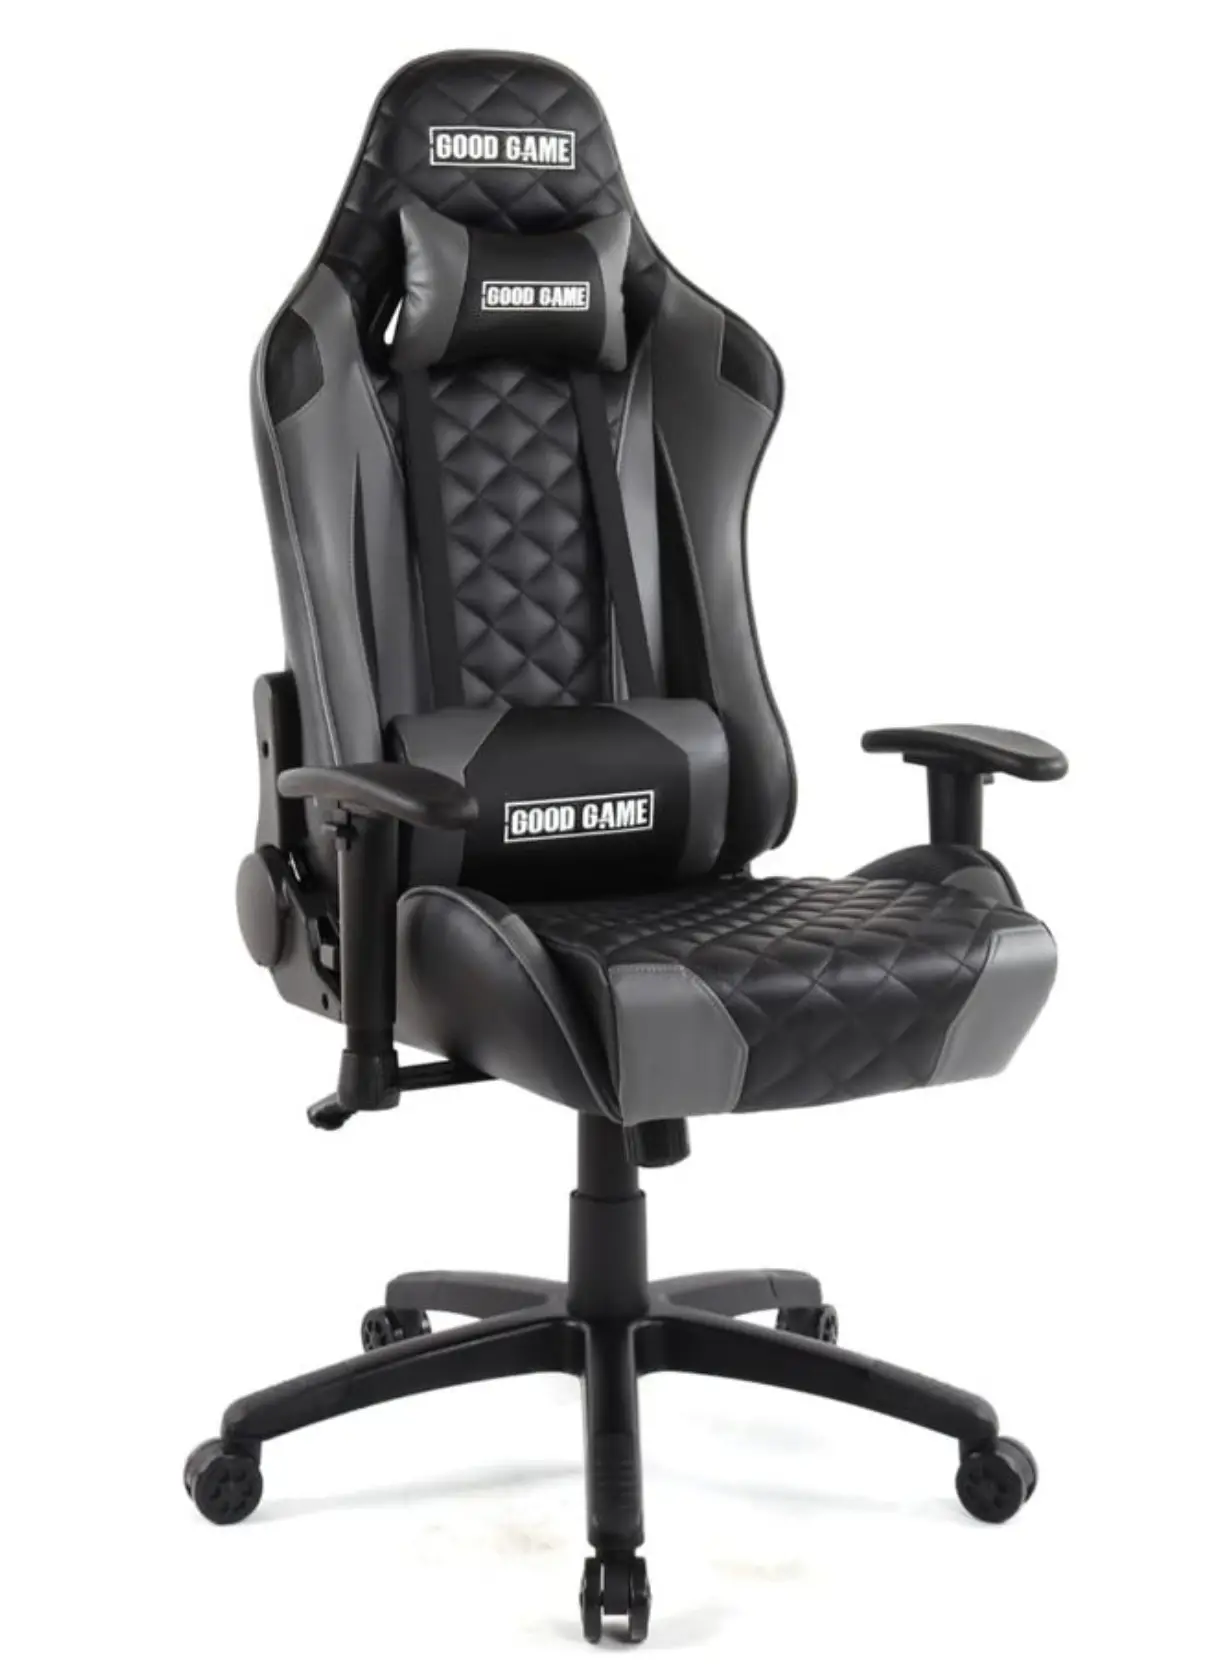
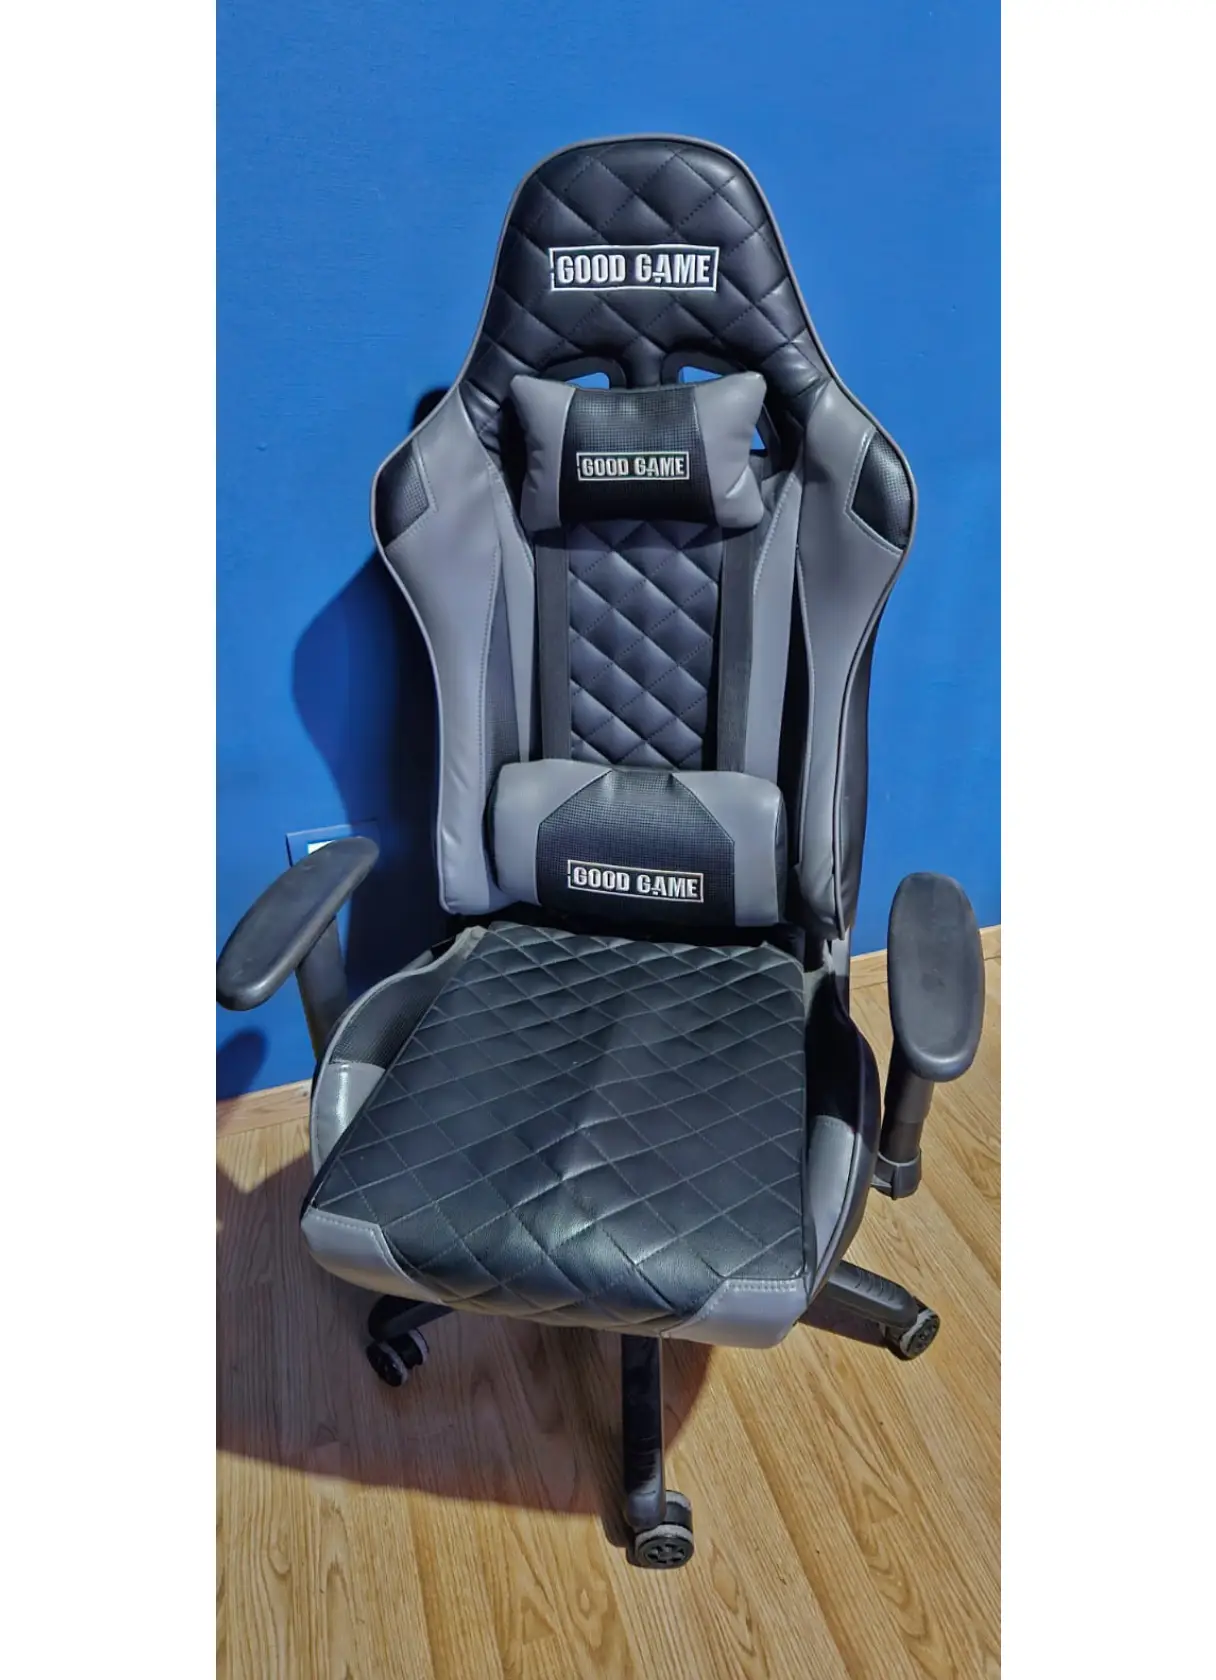
Updated images and components

diff --git a/src/utils/data.js b/src/utils/data.js
@@ -1,7 +1,14 @@
 // Images
-import alvProd1 from "../assets/alv-prod-1.webp"
-import alvProd2 from "../assets/alv-prod-2.webp"
-import alvProd3 from "../assets/alv-prod-3.webp"
+import alvProd1 from '../assets/alv-prod-1.webp'
+import alvProd2 from '../assets/alv-prod-2.webp'
+import alvProd3 from '../assets/alv-prod-3.webp'
+import alvProd4 from '../assets/alv-prod-4.webp'
+import alvProd5 from '../assets/alv-prod-5.webp'
+import alvProd6 from '../assets/alv-prod-6.webp'
+import alvProd7 from '../assets/alv-prod-7.webp'
+import alvProd8 from '../assets/alv-prod-8.webp'
+import alvProd9 from '../assets/alv-prod-9.webp'
+import alvProd10 from '../assets/alv-prod-10.webp'
 
 // Data
 const products = [
@@ -9,22 +16,71 @@ const products = [
     id: 1,
     name: 'PS4 Slim 1tb',
     imageSrc: alvProd1,
-    details: "Play Station 4 Slim de 1tb, con 2 juegos: Horizon y Gran Turismo, incluche 1 joystick.",
-    price: '$450.000'
+    details: 'Play Station 4 Slim de 1tb, con 3 juegos: Horizon, Gran Turismo, Rainbow Six, incluye 1 joystick.',
+    price: '$400.000'
   },
   {
-    id: 2,
-    name: 'Thonet & Vander Rastel',
-    imageSrc: alvProd2,
-    details: "Equipo de audio Thonet & Vander, modelo Rastel, incluye el control remoto, 2 parlates y 1 woofer.",
-    price: '$250.000'
+    id: 8,
+    name: 'Monitor LG',
+    imageSrc: alvProd8,
+    details: 'Full HD, 22 pulgadas, con entrada HDMI (se puede usar como TV)',
+    price: '$90.000'
   },
   {
     id: 3,
     name: 'Silla Gamer Good Game',
     imageSrc: alvProd3,
-    details: "Silla gamer de eco-cuero, inclinación regulable, almohadilla cervical.",
-    price: '$230.000'
+    details: 'Silla gamer de eco-cuero, inclinación regulable, almohadilla lumbar regulable y cabezal.',
+    price: '$120.000'
+  },
+  {
+    id: 4,
+    name: 'Balance board',
+    imageSrc: alvProd4,
+    details: 'Tabla de madera con rodillo de Yoga',
+    price: '$20.000'
+  },
+  {
+    id: 5,
+    name: 'Guitarra criolla',
+    imageSrc: alvProd5,
+    details: 'Modelo Antigüa Casa Nuñez',
+    price: '$150.000'
+  },
+  {
+    id: 6,
+    name: 'Pizarra',
+    imageSrc: alvProd6,
+    details: 'De material metálico, con marco negro inyectado. Mide 60cm x 80cm',
+    price: '$10.000'
+  },
+  {
+    id: 7,
+    name: 'Zapatillas Adidas Forum Mid',
+    imageSrc: alvProd7,
+    details: 'De cuero con cordones, y apliques de abrojo. Numero 41 argentina, 9 USA',
+    price: '$90.000'
+  },
+  {
+    id: 9,
+    name: 'Escritorio',
+    imageSrc: alvProd9,
+    details: 'Mesa de madera con base de hierro y cuenta con soporte para cableado. Medidas:150cm de largo x 60cm de ancho x 75cm de alto',
+    price: '$120.000'
+  },
+  {
+    id: 2,
+    name: 'Thonet & Vander Rastel',
+    imageSrc: alvProd2,
+    details: 'Equipo de audio Thonet & Vander, modelo Rätsel woofer, incluye el control remoto, 2 parlates y 1 woofer.',
+    price: '$130.000'
+  },
+  {
+    id: 10,
+    name: 'Impresora HP Desk Jet 3635',
+    imageSrc: alvProd10,
+    details: 'Imprime, escanea, copia, y se puede conectar a WiFi',
+    price: '$70.000'
   }
 ]
 export default products

diff --git a/src/components/ProductCard.jsx b/src/components/ProductCard.jsx
@@ -4,7 +4,7 @@ const ProductCard = ({product}) => {
     return (
         <Link href={`/producto/${product.id}`}>
             <div className="group relative">
-                <div className="aspect-h-1 aspect-w-1 w-full overflow-hidden rounded-md bg-gray-200 lg:aspect-none group-hover:opacity-90 lg:h-80">
+                <div className="aspect-h-1 aspect-w-1 w-full overflow-hidden bg-gray-200 lg:aspect-none group-hover:opacity-90 lg:h-80">
                     <img src={product.imageSrc} alt={product.name} className="h-full w-full object-cover object-center lg:h-full lg:w-full"/>
                 </div>
                 <h3 className="text-md text-gray-700 mt-2 ps-5">{product.name}</h3>

diff --git a/src/components/ProductsGrid.jsx b/src/components/ProductsGrid.jsx
@@ -9,7 +9,7 @@ const ProductsGrid = ({products}) => {
     useEffect(() => {
         setTimeout(() => {
             setLoad(false)
-        }, 800)
+        }, 100)
     }, [])
 
     return (
@@ -22,7 +22,7 @@ const ProductsGrid = ({products}) => {
                         ))}
                     </div>
                   </div>
-                : <div className="flex flex-col justify-center items-center w-full h-full">
+                : <div className="flex flex-col justify-center items-center w-full h-full minw-1024">
                     <Loader/>
                   </div> 
             }

diff --git a/src/pages/Products.jsx b/src/pages/Products.jsx
@@ -15,7 +15,7 @@ const Products = () => {
             </Helmet>
             <section id="Products" className="flex flex-col h-full">
                 <Header/>
-                <div className="bg-gradient-to-b from-indigo-200 flex-1 flex flex-col justify-start items-center max-w-screen-lg lg:mx-auto">
+                <div className="flex-1 flex flex-col justify-start items-center max-w-screen-lg lg:mx-auto">
                     <InfoBanner/>
                     <ProductsGrid products={products}/>
                 </div>

diff --git a/src/components/InfoBanner.jsx b/src/components/InfoBanner.jsx
@@ -10,6 +10,7 @@ const InfoBanner = ({productPage}) => {
                     <li className="text-gray-400"><span className="text-gray-600">Consultar haciendo click en "contactar"</span></li>
                 </ul>
             </div>
+            <p className="mt-3">Todos los precios son negociables 😁</p>
         </section>
     )
 }

diff --git a/src/index.css b/src/index.css
@@ -27,3 +27,9 @@ html, body, #root {
     0% { transform: rotate(0deg);}
     100% { transform: rotate(360deg);}
 }
+
+@media screen and (min-width: 992px) {
+    #ProductsGrid > .minw-1024 {
+        min-width: 1024px;
+    }
+}

diff --git a/src/pages/Product.jsx b/src/pages/Product.jsx
@@ -36,7 +36,7 @@ const Product = ({id}) => {
         setTimeout(() => {
             filterProduct()
             setLoad(false)
-        }, 800)
+        }, 100)
     }, [])
 
     return (
